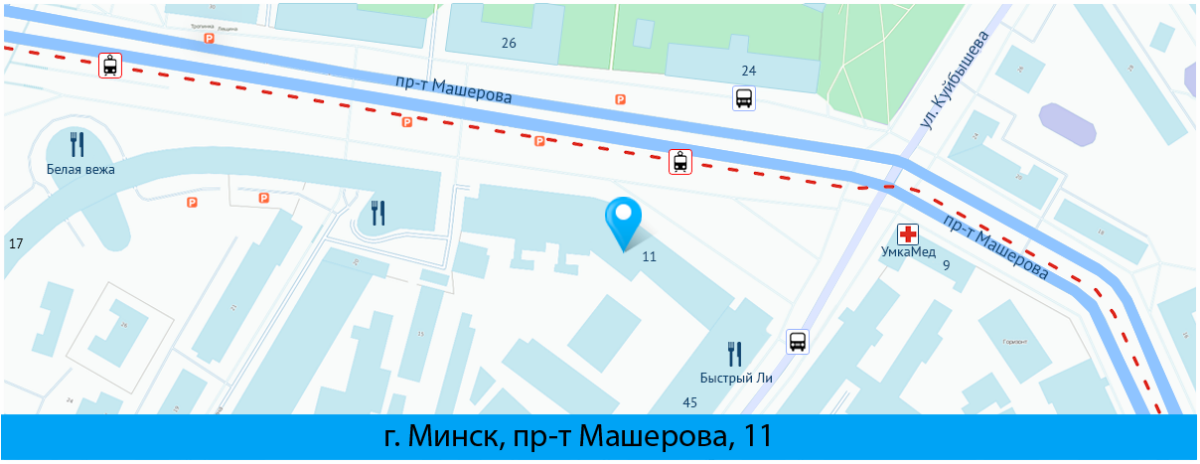
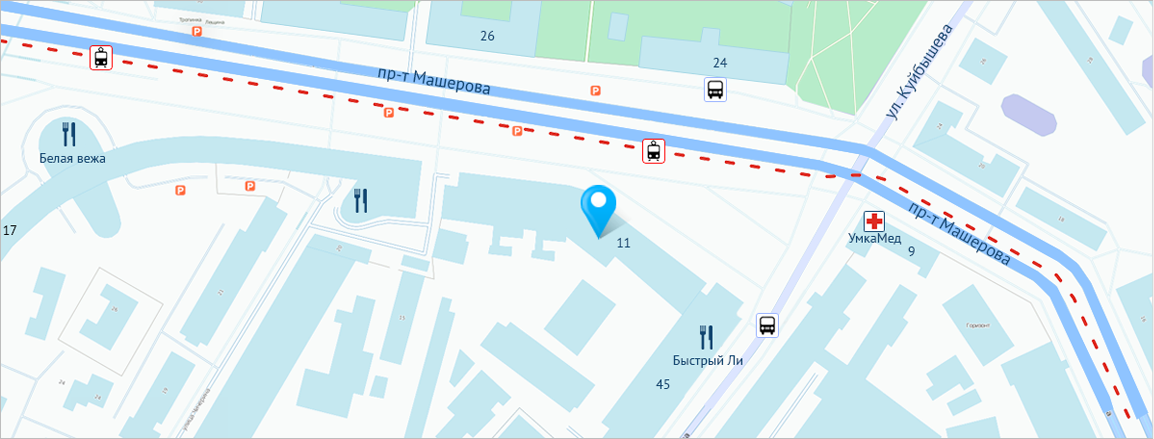
map fix

diff --git a/styles/main-page.css b/styles/main-page.css
@@ -1,52 +1,74 @@
 @import url('header.css');
 
 #partnersCarousel {
-    background-color: #fdfdfd;
+	background-color: #fdfdfd;
 }
 
-    #partnersCarousel .partner {
-        height: 40px;
-        width: 104px;
-        background-position-y: 40px;
-    }
+	#partnersCarousel .partner {
+		height: 40px;
+		width: 104px;
+		background-position-y: 40px;
+	}
 
-        #partnersCarousel .partner:hover {
-            background-position-y: 0;
-            cursor: pointer;
-        }
+		#partnersCarousel .partner:hover {
+			background-position-y: 0;
+			cursor: pointer;
+		}
 
 .border {
-    width: 1400px;
-    height: 20px;
-    margin: 0 auto;
+	width: 1400px;
+	height: 20px;
+	margin: 0 auto;
 }
 
-    .border.upper {
-        background: linear-gradient(to top,#ebebeb, transparent);
-    }
+	.border.upper {
+		background: linear-gradient(to top,#ebebeb, transparent);
+	}
 
-    .border.lower {
-        background: linear-gradient(to bottom,#ebebeb, transparent);
-    }
+	.border.lower {
+		background: linear-gradient(to bottom,#ebebeb, transparent);
+	}
+
+.map-wrapper {
+	position: relative;
+	width: 1200px;
+	height: 488px;
+}
 
 .map {
-    width: 1200px;
-    height: 464px;
-    background-image: url('../images/map.png');
+	position: relative;
+	width: 1154px;
+	height: 439px;
+	background: url('../images/map.png')no-repeat;
+	top: 23px;
+	left: 23px;
+	-webkit-box-shadow: 0 0 32px 16px #e3e3e3;
+	-moz-box-shadow: 0 0 32px 16px #e3e3e3;
+	box-shadow: 0 0 32px 16px #e3e3e3;
 }
 
+	.map .title {
+		position: absolute;
+		background-color: rgba(0,170,255,0.75);
+		text-align: center;
+		bottom: 0;
+		width: 100%;
+		padding: 5px 0;
+		font-size: 24px;
+	}
+
 .pre-partner, .post-partner {
-    width: 200px;
-    height: 80px;
-    position: absolute;
+	width: 200px;
+	height: 80px;
+	position: absolute;
 }
 
 .pre-partner {
-    right: 100%;
-    background: linear-gradient(to left, #fdfdfd, transparent 40%);
+	right: 100%;
+	background: linear-gradient(to left, #fdfdfd, transparent 40%);
 }
 
 .post-partner {
-    left: 100%;
-     background: linear-gradient(to right, #fdfdfd, transparent 40%);
+	left: 100%;
+	background: linear-gradient(to right, #fdfdfd, transparent 40%);
 }

diff --git a/styles/site.css b/styles/site.css
@@ -2,38 +2,38 @@
 @import url('reset.css');
 
 body {
-    margin: 0;
-    font-family: 'PT Sans', sans-serif;
-    overflow-x: hidden;
-    background-image: url('../images/background.png');
+	margin: 0;
+	font-family: 'PT Sans', sans-serif;
+	overflow-x: hidden;
+	background-image: url('../images/background.png');
 }
 
 .clearfix:after {
-    content: ".";
-    clear: both;
-    display: block;
-    height: 0;
-    visibility: hidden;
+	content: ".";
+	clear: both;
+	display: block;
+	height: 0;
+	visibility: hidden;
 }
 
 
 .main-wrapper {
-    position: relative;
-    width: 1200px;
-    margin: 0 auto;
+	position: relative;
+	width: 1200px;
+	margin: 0 auto;
 }
 
 .logo-wrapper {
-    position: absolute;
-    background: url('../images/logo.png') 0 0 no-repeat;
-    width: 1923px;
-    height: 128px;
-    left: -380px;
-    top: 10px;
+	position: absolute;
+	background: url('../images/logo.png') 0 0 no-repeat;
+	width: 1923px;
+	height: 128px;
+	left: -380px;
+	top: 10px;
 }
 
 h2 {
-    font-size: 24px;
-    font-weight: bold;
-    margin: 10px 0 0 12px;
+	font-size: 24px;
+	font-weight: bold;
+	margin: 10px 0 0 12px;
 }

diff --git a/index.html b/index.html
@@ -426,7 +426,11 @@
 	<div class="lower border"></div>
 
 	<div class="main-wrapper">
-		<div class="map"></div>
+		<div class="map-wrapper">
+			<div class="map">
+				<div class="title">г. Минск, пр-т Машерова, 11</div>
+			</div>
+		</div>
 	</div>
 
 	<div class="main-wrapper">
